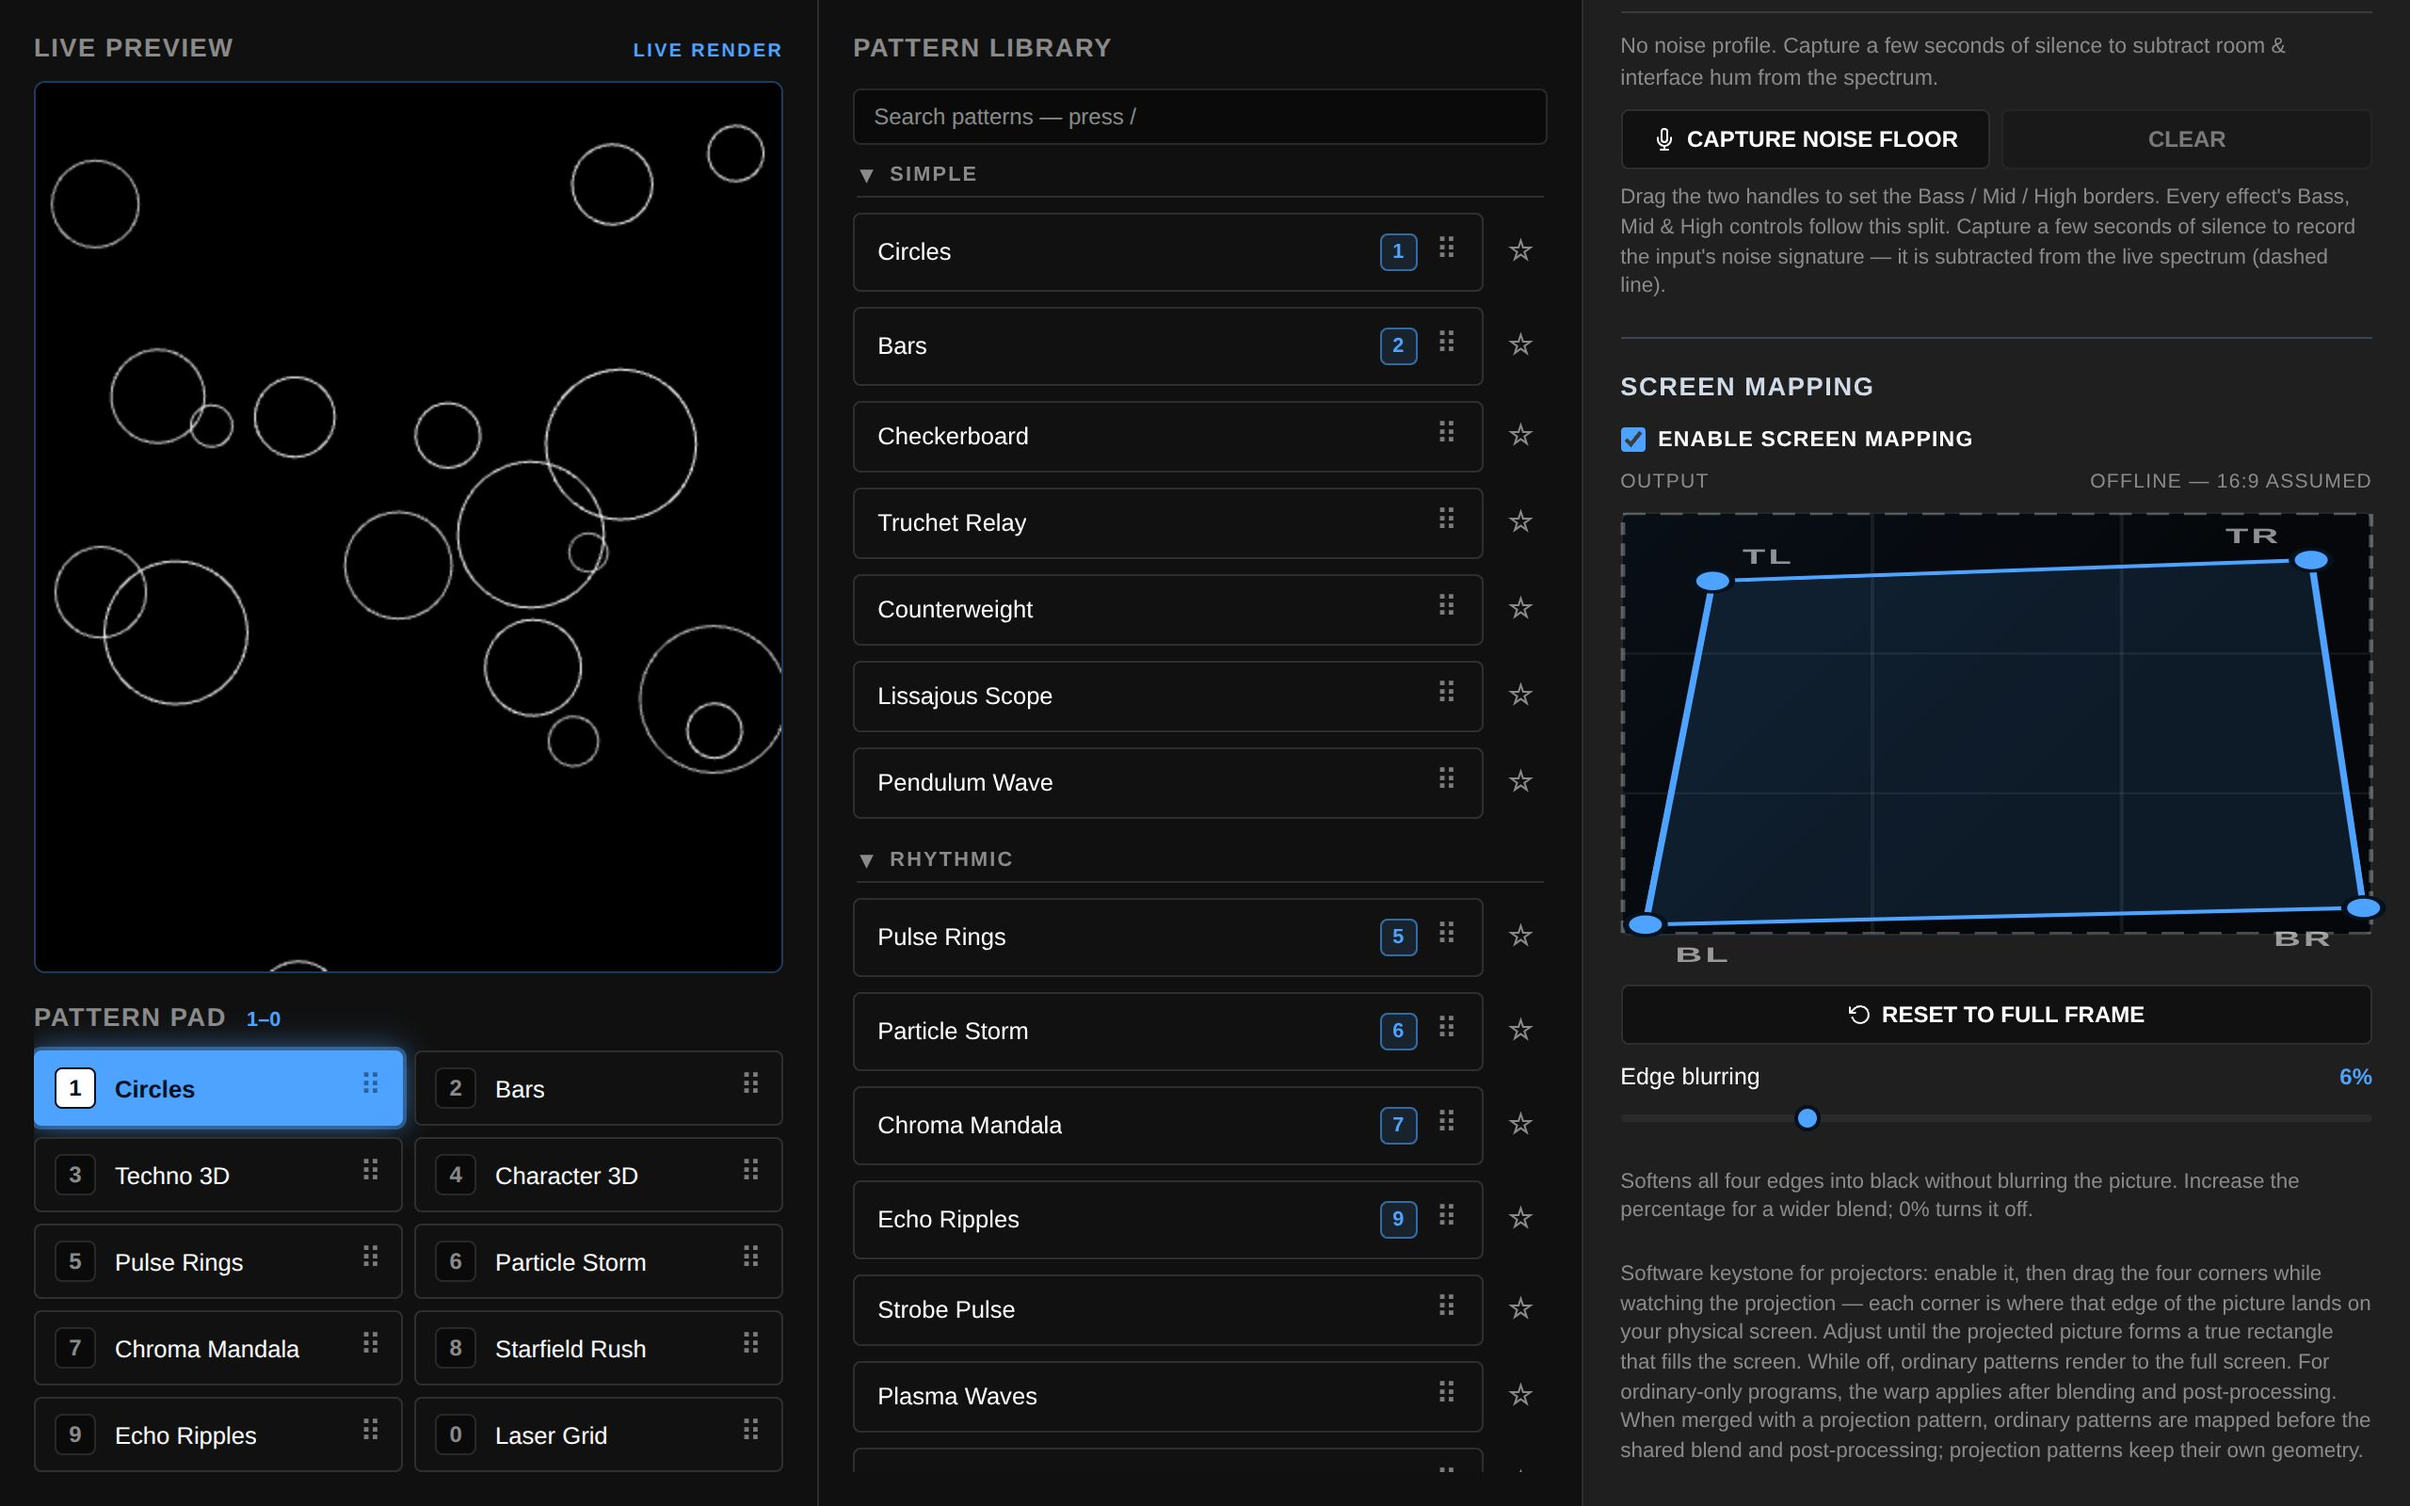
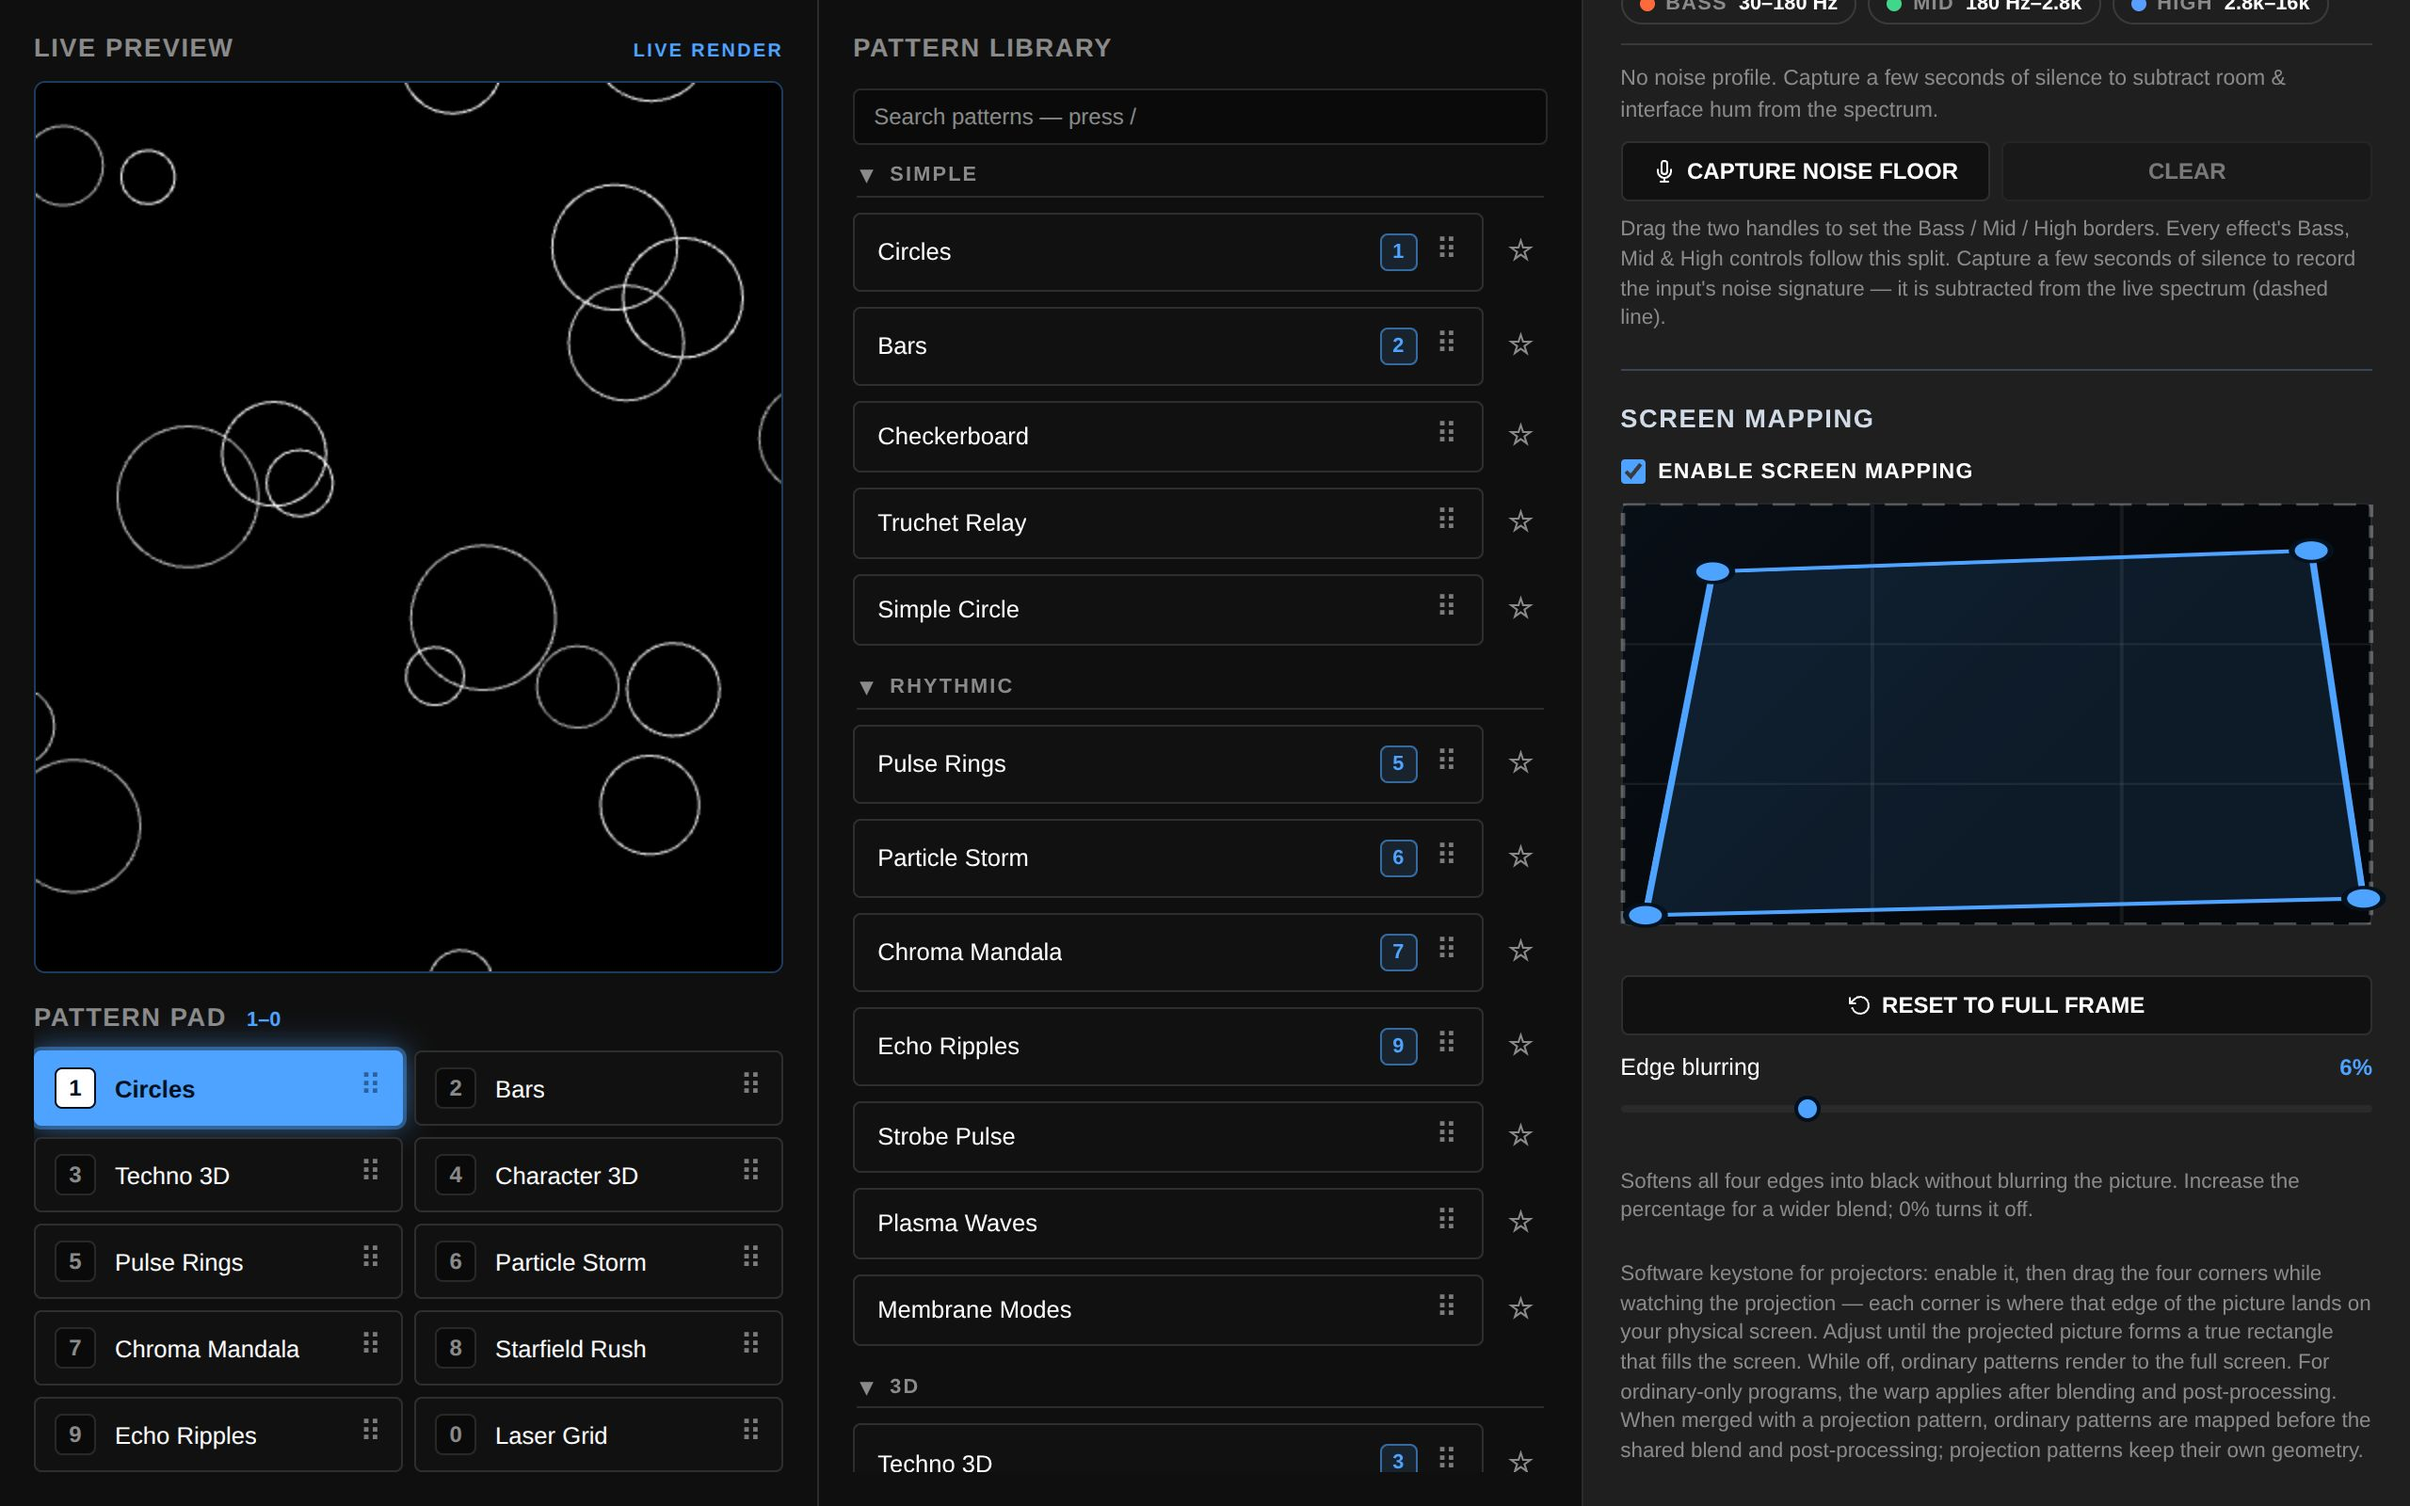
Make screen mapping Tidy.

diff --git a/tests/screen-mapping.spec.js b/tests/screen-mapping.spec.js
@@ -127,7 +127,7 @@ function expectedMappedPoint(quad, u, v, width, height) {
 }
 
 test.describe('screen mapping section', () => {
-  test('renders at the bottom of the controls pane with the output resolution', async ({ context }) => {
+  test('renders at the bottom of the controls pane as a text-free corner editor', async ({ context }) => {
     const screen = await context.newPage();
     await screen.goto(SCREEN_URL);
     await screen.waitForSelector('#screen-wrap canvas');
@@ -144,16 +144,21 @@ test.describe('screen mapping section', () => {
     );
     expect(order.at(-1)).toBe('screen-mapping');
 
-    // The reported resolution is the OUTPUT window's inner size (both windows
-    // share the context viewport, so it equals the control window's own size).
-    const viewport = control.viewportSize();
-    await expect(control.locator('#screen-mapping-resolution')).toHaveText(
-      `${viewport.width} × ${viewport.height}`,
-    );
+    // The editor carries no text of its own: the TL/TR/BR/BL corner tags and
+    // the Output/resolution meta line are gone, so the box is handles + grid.
+    await expect(section.locator('.sm-label')).toHaveCount(0);
+    await expect(section.locator('.screen-mapping-meta')).toHaveCount(0);
+    await expect(section).not.toContainText('offline — 16:9 assumed');
+
+    // The output resolution still feeds the editor's aspect ratio (16:9 while
+    // the output window is offline; both pages share the context viewport).
+    const editor = control.locator('#screen-mapping-editor');
+    const editorBox = await editor.boundingBox();
+    expect(editorBox.width / editorBox.height).toBeCloseTo(16 / 9, 1);
 
     // Editor + enable checkbox + four corner handles + reset are present.
     // The feature is opt-in: off by default (full-frame output), editor inert.
-    await expect(control.locator('#screen-mapping-editor')).toBeVisible();
+    await expect(editor).toBeVisible();
     await expect(control.locator('#screen-mapping-enabled')).not.toBeChecked();
     await expect(control.locator('#screen-mapping-editor [data-corner]')).toHaveCount(4);
     await expect(control.locator('#screen-mapping-reset-btn')).toBeDisabled(); // off + identity quad

diff --git a/src/components/control/ScreenMappingPanel.jsx b/src/components/control/ScreenMappingPanel.jsx
@@ -16,15 +16,6 @@ import { ICON_RESET } from '../common/icons.jsx';
 
 const CORNER_HAND_CURSOR = { tl: 'nwse-resize', tr: 'nesw-resize', br: 'nwse-resize', bl: 'nesw-resize' };
 
-// Label anchor offsets (viewBox units) keep the TL/TR/BR/BL tags outside the
-// handle so they never block the drag.
-const LABEL_OFFSETS = {
-  0: { dx: 4, dy: -4, anchor: 'start' },
-  1: { dx: -4, dy: -4, anchor: 'end' },
-  2: { dx: -4, dy: 9, anchor: 'end' },
-  3: { dx: 4, dy: 9, anchor: 'start' },
-};
-
 export function ScreenMappingPanel() {
   const { runtime, store } = useRuntime();
   const quad = useVizStore(store, (s) => s.screenMappingQuad);
@@ -142,17 +133,6 @@ export function ScreenMappingPanel() {
         <span>Enable screen mapping</span>
       </label>
 
-      <div className="screen-mapping-meta">
-        <span>Output</span>
-        <b
-          id="screen-mapping-resolution"
-          className={resolution ? undefined : 'screen-offline'}
-          title="Resolution of the fullscreen output window"
-        >
-          {resolution ? `${resolution.width} × ${resolution.height}` : 'offline — 16:9 assumed'}
-        </b>
-      </div>
-
       <svg
         id="screen-mapping-editor"
         ref={svgRef}
@@ -176,7 +156,6 @@ export function ScreenMappingPanel() {
         {(points || []).map((pt, index) => {
           const cx = pt.x * 100;
           const cy = pt.y * 100;
-          const off = LABEL_OFFSETS[index];
           const key = SCREEN_MAPPING_CORNER_LABELS[index].toLowerCase();
           return (
             <g key={`corner-${index}`}>
@@ -187,9 +166,6 @@ export function ScreenMappingPanel() {
                 r="2.6"
                 style={{ pointerEvents: 'none' }}
               />
-              <text className="sm-label" x={cx + off.dx} y={cy + off.dy} textAnchor={off.anchor}>
-                {SCREEN_MAPPING_CORNER_LABELS[index]}
-              </text>
               <circle
                 className="sm-handle-hit"
                 data-corner={key}

diff --git a/public/docs/screen-mapping.html b/public/docs/screen-mapping.html
@@ -64,7 +64,7 @@
         <h2>Enabling it</h2>
         <p>Screen mapping is a <strong>global</strong> setting. In the control panel, open <strong>Global Settings → Screen Mapping</strong> and tick <strong>Enable screen mapping</strong>. It is off by default, which means ordinary patterns fill the whole output frame.</p>
 
-        <p>The section also shows the output window's current resolution, so you can check what you're calibrating against. While the screen window is closed it reads <em>offline — 16:9 assumed</em>; the corners are locked until mapping is enabled.</p>
+        <p>The editor follows the output window's aspect ratio, and the corners are locked until mapping is enabled — while it is off the output renders full-frame.</p>
 
         <figure class="figure">
           <img src="/docs/shots/screen-mapping.jpg" alt="The Screen Mapping section with the enable checkbox, a warped corner editor, Reset to Full Frame, and the Edge blurring slider" />
@@ -74,7 +74,7 @@
         <h2>Square it up</h2>
         <ol>
           <li>Put the screen window on the projector and play something with obvious edges — a checkerboard works well.</li>
-          <li>Drag the <strong>TL</strong>, <strong>TR</strong>, <strong>BR</strong> and <strong>BL</strong> handles. Each corner is where that corner of the picture should land on your physical surface.</li>
+          <li>Drag the handle at each corner of the guide box — top-left, top-right, bottom-right and bottom-left. Each corner is where that corner of the picture should land on your physical surface.</li>
           <li>Keep adjusting until the projection is rectangular and fills the screen. Every change applies to the output <em>in real time</em>, so you can stand at the projector and drag on the laptop.</li>
         </ol>
 

diff --git a/src/styles/screen-mapping.css b/src/styles/screen-mapping.css
@@ -33,30 +33,8 @@
   pointer-events: none;
 }
 
-.screen-mapping-body.is-disabled .screen-mapping-meta,
 .screen-mapping-body.is-disabled p {
   opacity: 0.72;
-}
-
-.screen-mapping-meta {
-  display: flex;
-  align-items: baseline;
-  justify-content: space-between;
-  gap: 8px;
-  font-size: 0.66rem;
-  color: var(--text-dim);
-  letter-spacing: 0.06em;
-  text-transform: uppercase;
-}
-
-.screen-mapping-meta b {
-  color: var(--text-main);
-  font-variant-numeric: tabular-nums;
-}
-
-.screen-mapping-meta b.screen-offline {
-  color: var(--text-dim);
-  font-weight: 400;
 }
 
 #screen-mapping-editor {
@@ -112,14 +90,6 @@
 #screen-mapping-editor .sm-handle-hit {
   fill: transparent;
   cursor: grab;
-}
-
-#screen-mapping-editor .sm-label {
-  fill: rgba(255, 255, 255, 0.55);
-  font-size: 5px;
-  font-weight: 700;
-  letter-spacing: 0.08em;
-  pointer-events: none;
 }
 
 .screen-mapping-body p {
